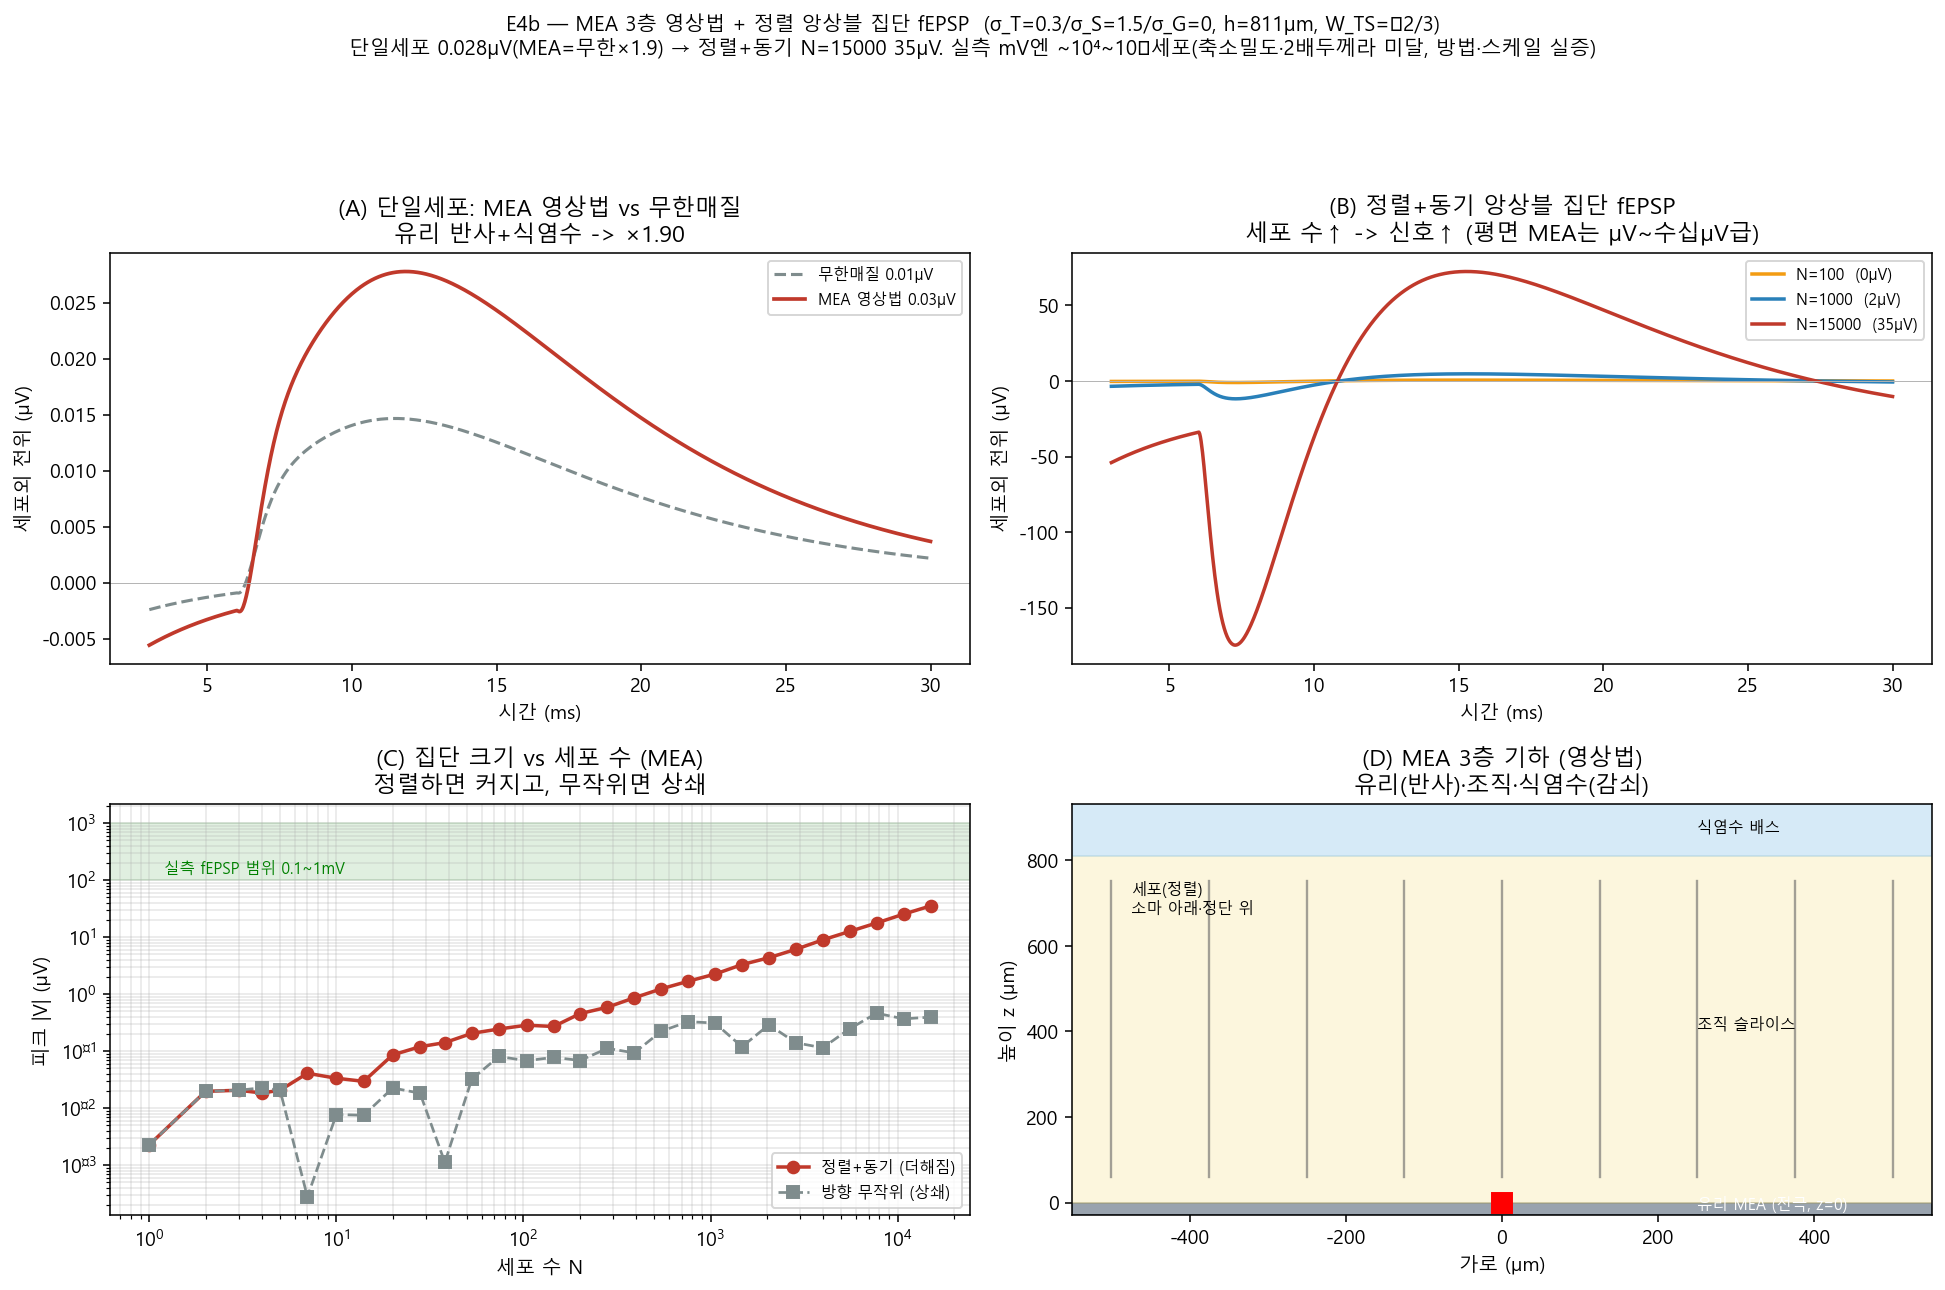
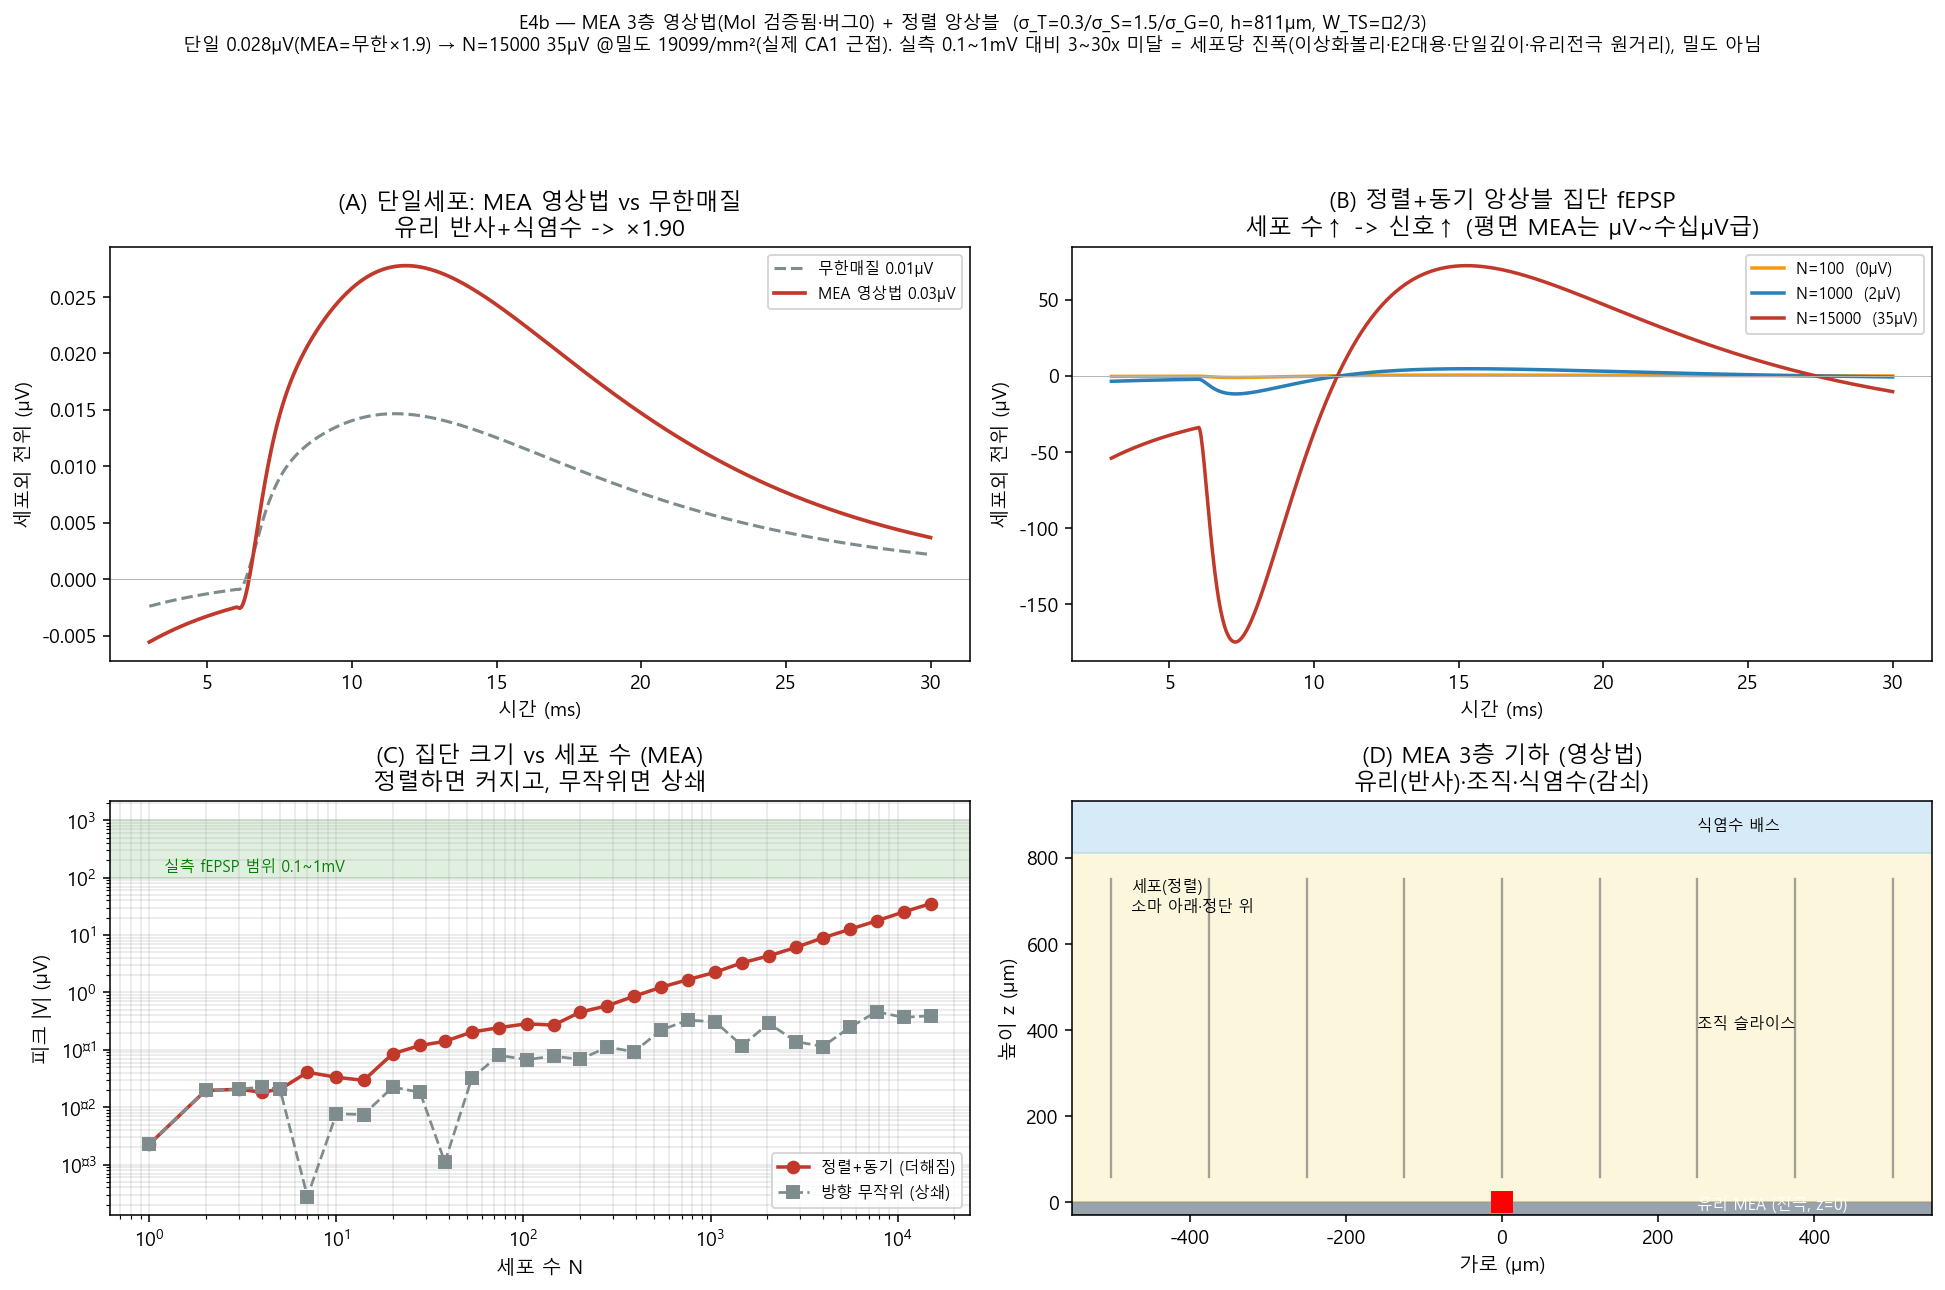
E4b 정정: 적대검증 반영 — 오귀속 수정 + MEA 배치 적합성
적대검증(3에이전트): MoI 엔진 PASS(버그0·3중 독립재구현 기계정밀 일치·극한 2.0/2.0/1.77).
캡션 오귀속 3건 정정(정직성):
 (1) 미달원인 '축소밀도'→'세포당 진폭'. N=15000이 이미 19,099/mm²로 실제 CA1(2~4e4) 근접 → 밀도 충분.
 (2) '2배두께라 미달' 방향오류 정정 — 두께↑는 경계반사로 MoI비율↑(과대), 소스거리로 과소 = 별개 상반기전 분리서술.
 (3) '~10⁴~10⁵'→실제 외삽 ~426,623세포. 실측 0.1~1mV 대비 35µV는 3~30x 미달(세포당 진폭 이상화 탓).

e4b_mea_layout.py: 슬라이스 cut-face 2577×1082µm·두께490µm vs MEA 8×8@200µm(1400µm)
→ 부분만 적합(31/64 조직 위, CA1 곡선 밴드).

diff --git a/like_slice_CA1/12_lfp/e4b_mea_layout.py b/like_slice_CA1/12_lfp/e4b_mea_layout.py
@@ -1,0 +1,115 @@
+# -*- coding: utf-8 -*-
+"""12_lfp/e4b_mea_layout.py  —  슬라이스 면적 vs MEA(8x8, 간격200um, 직경10um) 적합성
+
+슬라이스(slice400, 17,647세포)의 실제 cut-face(절단면) 크기를 PCA로 구하고,
+가상 MEA(전극 직경 10um · 간격 200um · 8x8 정사각 = 1400um span)를 겹쳐
+슬라이스에 들어가는지(64전극 중 몇 개가 조직 위에 오는지) 확인·시각화.
+
+실행: <ca1sim>/python.exe 12_lfp/e4b_mea_layout.py
+"""
+import os
+import sys
+import numpy as np
+import matplotlib
+matplotlib.use("Agg")
+import matplotlib.pyplot as plt
+from matplotlib.patches import Rectangle
+
+try:
+    sys.stdout.reconfigure(encoding="utf-8")
+except Exception:
+    pass
+plt.rcParams["font.family"] = "Malgun Gothic"
+plt.rcParams["axes.unicode_minus"] = False
+
+HERE = os.path.dirname(os.path.abspath(__file__))
+ROOT = os.path.dirname(HERE)
+FIG = os.path.join(HERE, "figures")
+os.makedirs(FIG, exist_ok=True)
+
+# MEA 사양
+D_ELEC = 10.0        # 전극 직경 um
+PITCH = 200.0        # 간격 um
+NGRID = 8            # 8x8
+
+
+def main():
+    d = np.load(os.path.join(ROOT, "05_placement", "slice_cells.npz"), allow_pickle=True)
+    xyz = d["xyz"].astype(float)                 # (N,3) um
+    layer = d["layer"]
+    N = xyz.shape[0]
+
+    # --- PCA: cut-face(큰 2축) + 두께(작은 축) ---
+    c = xyz.mean(axis=0)
+    X = xyz - c
+    U, S, Vt = np.linalg.svd(X, full_matrices=False)
+    pcs = Vt                                      # (3,3) 주축
+    proj = X @ pcs.T                              # (N,3) 주축 좌표
+    ext = proj.max(axis=0) - proj.min(axis=0)     # 각 주축 범위
+    order = np.argsort(-ext)                       # 큰 축부터
+    a1, a2, a3 = order                             # a1,a2=면, a3=두께
+    face = proj[:, [a1, a2]]                        # (N,2) 면 좌표
+    W1, W2, THK = ext[a1], ext[a2], ext[a3]
+    print(f"[슬라이스] 세포 {N} · cut-face {W1:.0f} x {W2:.0f} um · 두께 {THK:.0f} um", flush=True)
+    print(f"[슬라이스] 면 대략 면적(외접사각) {W1*W2/1e6:.2f} mm^2", flush=True)
+
+    # --- MEA 격자 (면 중심에 배치) ---
+    span = (NGRID - 1) * PITCH                     # 1400 um
+    fc = face.mean(axis=0)
+    gs = np.arange(NGRID) * PITCH - span / 2
+    gx, gy = np.meshgrid(fc[0] + gs, fc[1] + gs)
+    ex = np.column_stack([gx.ravel(), gy.ravel()])  # (64,2) 전극 중심
+    print(f"[MEA] 8x8 · 간격 {PITCH:.0f}um · 전극 {D_ELEC:.0f}um · 전체 span {span:.0f}x{span:.0f} um ({span/1000:.1f}x{span/1000:.1f} mm)", flush=True)
+
+    # --- 각 전극이 조직 위인가: 반경 R 내 세포 존재 ---
+    R_NEAR = PITCH / 2                              # 100um
+    over = np.zeros(len(ex), bool)
+    for i, e in enumerate(ex):
+        over[i] = np.any(np.sum((face - e) ** 2, axis=1) < R_NEAR ** 2)
+    n_over = int(over.sum())
+    # 면 외접사각 대비 MEA span
+    fits_bbox = (span <= W1) and (span <= W2)
+    print(f"[적합성] 조직 위 전극 {n_over}/64 ({100*n_over/64:.0f}%) · MEA span {span:.0f} vs 면 {W1:.0f}x{W2:.0f}"
+          f" -> 외접사각 {'들어감' if fits_bbox else '초과(한 변 부족)'}", flush=True)
+
+    # ---------------- 그림 ----------------
+    fig, ax = plt.subplots(1, 2, figsize=(15, 6.5))
+
+    # (좌) 면 위 세포 + MEA 격자
+    a = ax[0]
+    colmap = {"SP": "#e67e22", "SO": "#3498db", "SR": "#2ecc71", "SLM": "#9b59b6"}
+    for lay, col in colmap.items():
+        mm = layer == lay
+        a.scatter(face[mm, 0], face[mm, 1], s=2, color=col, alpha=0.35, label=f"{lay}({mm.sum()})")
+    for i, e in enumerate(ex):
+        a.add_patch(plt.Circle((e[0], e[1]), max(D_ELEC / 2, 6), color="k" if over[i] else "red", zorder=5))
+    a.add_patch(Rectangle((ex[:, 0].min() - D_ELEC, ex[:, 1].min() - D_ELEC),
+                          span + 2 * D_ELEC, span + 2 * D_ELEC, fill=False, ec="k", lw=1.2, ls="--"))
+    a.set_aspect("equal")
+    a.set_xlabel("면 가로 (µm)"); a.set_ylabel("면 세로 (µm)")
+    a.set_title(f"(좌) 슬라이스 cut-face {W1:.0f}×{W2:.0f}µm + MEA 8×8(간격{PITCH:.0f}µm)\n"
+                f"검정=조직 위 전극 {n_over}/64 · 빨강=조직 밖")
+    a.legend(fontsize=8, loc="upper right", markerscale=3)
+
+    # (우) 축척 비교 막대
+    b = ax[1]
+    b.barh(["슬라이스 면 가로", "슬라이스 면 세로", "MEA span(1400µm)", "슬라이스 두께"],
+           [W1, W2, span, THK], color=["#e67e22", "#e67e22", "#c0392b", "#7f8c8d"])
+    for i, v in enumerate([W1, W2, span, THK]):
+        b.text(v + 30, i, f"{v:.0f}µm", va="center", fontsize=9)
+    b.axvline(span, color="#c0392b", ls=":", lw=1)
+    b.set_xlabel("길이 (µm)")
+    b.set_title("(우) 크기 비교 — MEA span vs 슬라이스 면/두께")
+
+    verdict = ("MEA가 슬라이스 면 안에 들어감" if fits_bbox and n_over >= 60 else
+               ("일부만 조직 위(면이 좁거나 CA1 곡선)" if n_over >= 20 else "MEA가 슬라이스보다 큼(안 들어감)"))
+    fig.suptitle(f"E4b 계획 — 슬라이스 면적 vs MEA(8×8·간격200µm·직경10µm) 적합성:  {verdict}",
+                 fontsize=12, y=1.01)
+    fig.tight_layout(rect=[0, 0, 1, 0.96])
+    out = os.path.join(FIG, "E4b_mea_layout.png")
+    fig.savefig(out, dpi=140, bbox_inches="tight")
+    print("saved:", out)
+
+
+if __name__ == "__main__":
+    main()

diff --git a/like_slice_CA1/12_lfp/e4b_fepsp.py b/like_slice_CA1/12_lfp/e4b_fepsp.py
@@ -111,6 +111,8 @@ def main():
     geom_mea = dict(mid=mid_mea, radius=geom["radius"])
     soma_z = soma_c @ R.T                                # (참고)
     print(f"[MEA] 세포 깊이범위 z={mid_mea[:,2].min():.0f}~{mid_mea[:,2].max():.0f}µm · 슬라이스 h={H:.0f}µm · 소마 z≈{mid_mea[np.argmin(np.abs(geom['mid'][:,1]-soma_c[1])),2]:.0f}", flush=True)
+    print(f"[두께 주의] full-size 상세 PC(~700µm)를 담으려 h={H:.0f}µm 사용(실측 MEA 300~400µm는 세포를 절단). "
+          f"두께는 두 상반 효과: 경계반사(두꺼울수록 MoI비율↑=과대) vs 소스-전극거리(멀수록 과소). 별개 기전이므로 분리해석.", flush=True)
 
     # ---- 3) 단일세포: MEA(영상법) vs 무한매질 ----
     elec = np.array([[0.0, 0.0, 0.0]])                   # 유리면 전극(인구 중심 아래)
@@ -141,8 +143,12 @@ def main():
 
     pop_full = abs(align[-1])
     a1 = abs(V1_mea[ipk])
-    print(f"[앙상블·MEA] 단일 {a1:.2f}µV -> 정렬+동기 N=1000 {abs(align[np.argmin(abs(Ns-1000))]):.0f}µV · N={NMAX} {pop_full:.0f}µV({pop_full/1000:.3f}mV)", flush=True)
-    print(f"[외삽] 실측 ~1mV엔 대략 N≈{int(NMAX*1000.0/max(pop_full,1e-9))} (현 밀도·기하 기준, 정렬+동기 가정)", flush=True)
+    density = NMAX / (np.pi * (R_POP / 1000.0) ** 2)     # 세포/mm^2 (원반 면적)
+    n_1mV = int(NMAX * 1000.0 / max(pop_full, 1e-9))
+    print(f"[앙상블·MEA] 단일 {a1:.3f}µV -> 정렬+동기 N=1000 {abs(align[np.argmin(abs(Ns-1000))]):.0f}µV · N={NMAX} {pop_full:.0f}µV", flush=True)
+    print(f"[밀도] N={NMAX}/반경{R_POP:.0f}µm = {density:.0f}세포/mm² -> 실제 CA1 str.pyr(2~4e4/mm²)에 근접 = 밀도는 이미 충분", flush=True)
+    print(f"[외삽] 이 진폭이면 1mV엔 ~{n_1mV:,}세포. 실측 평면MEA fEPSP 0.1~1mV 대비 {pop_full:.0f}µV는 3~30x 미달", flush=True)
+    print(f"[격차 원인] 밀도 아님 -> 세포당 진폭(이상화 단일볼리·Ecker E2 대용 SR 시냅스·전 복제본 동일깊이·유리전극 원거리)", flush=True)
 
     # ---------------- 그림 ----------------
     fig, ax = plt.subplots(2, 2, figsize=(14, 9))
@@ -191,9 +197,10 @@ def main():
     d.set_title("(D) MEA 3층 기하 (영상법)\n유리(반사)·조직·식염수(감쇠)")
     d.set_xlabel("가로 (µm)"); d.set_ylabel("높이 z (µm)")
 
-    fig.suptitle(f"E4b — MEA 3층 영상법 + 정렬 앙상블 집단 fEPSP  (σ_T={SIG_T}/σ_S={SIG_S}/σ_G=0, h={H:.0f}µm, W_TS=−2/3)\n"
-                 f"단일세포 {a1:.3f}µV(MEA=무한×{V1_mea[ipk]/V1_inf[ipk]:.1f}) → 정렬+동기 N={NMAX} {pop_full:.0f}µV. 실측 mV엔 ~10⁴~10⁵세포(축소밀도·2배두께라 미달, 방법·스케일 실증)",
-                 fontsize=10.5, y=1.02)
+    fig.suptitle(f"E4b — MEA 3층 영상법(MoI 검증됨·버그0) + 정렬 앙상블  (σ_T={SIG_T}/σ_S={SIG_S}/σ_G=0, h={H:.0f}µm, W_TS=−2/3)\n"
+                 f"단일 {a1:.3f}µV(MEA=무한×{V1_mea[ipk]/V1_inf[ipk]:.1f}) → N={NMAX} {pop_full:.0f}µV @밀도 {density:.0f}/mm²(실제 CA1 근접). "
+                 f"실측 0.1~1mV 대비 3~30x 미달 = 세포당 진폭(이상화볼리·E2대용·단일깊이·유리전극 원거리), 밀도 아님",
+                 fontsize=9.5, y=1.02)
     fig.tight_layout(rect=[0, 0, 1, 0.95])
     out = os.path.join(FIG, "E4b_mea_ensemble.png")
     fig.savefig(out, dpi=140, bbox_inches="tight")
